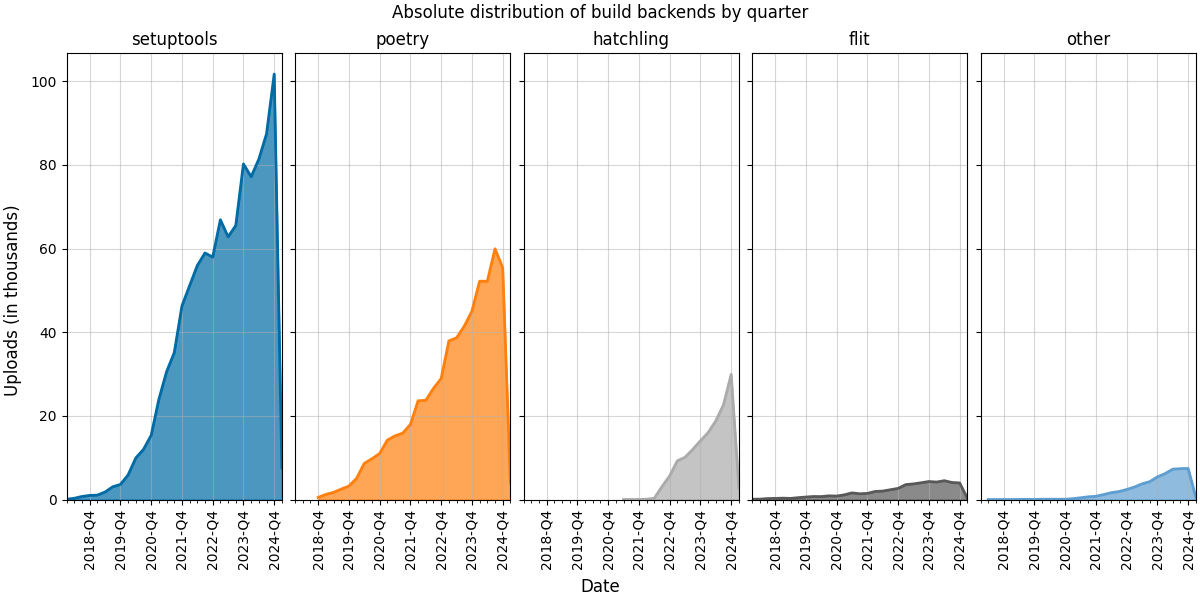
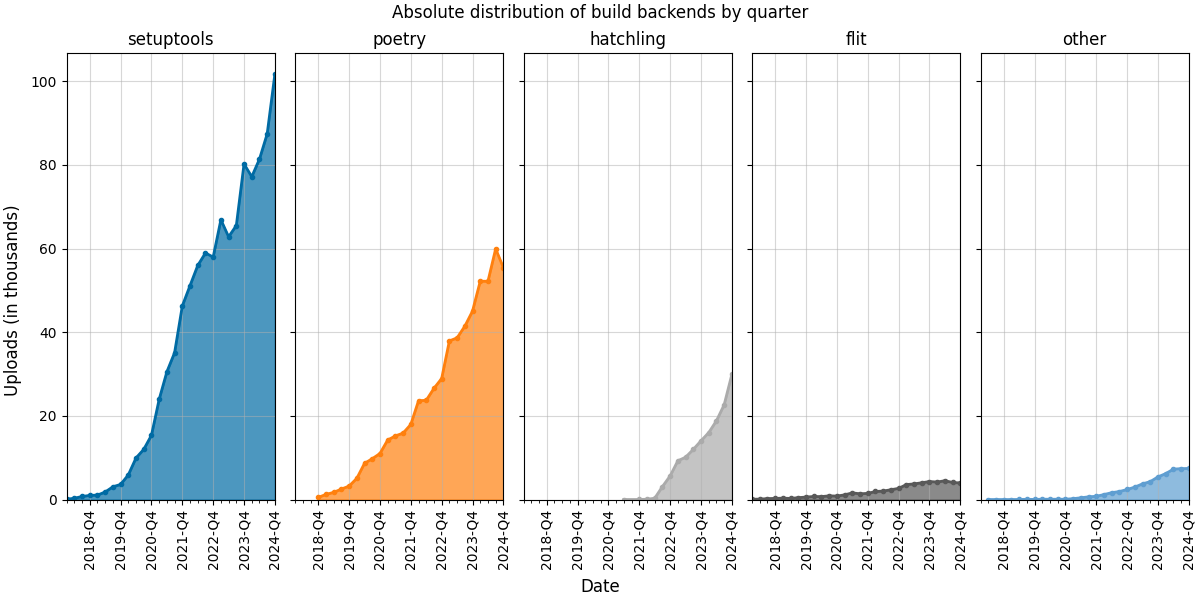
update

diff --git a/main.py b/main.py
@@ -174,7 +174,7 @@ def analyze():
     results = results.filter(
         pl.col('uploaded_on') >= pl.date(2018, 1, 1),
         #pl.col('uploaded_on') >= pl.date(2019, 1, 1),
-        #pl.col('uploaded_on') < pl.date(2025, 1, 1),
+        pl.col('uploaded_on') < pl.date(2025, 1, 1),
     )
 
     order = (
@@ -222,6 +222,7 @@ def analyze():
     for backend in order:
        ax.plot(normalized.filter(pl.col('backend') == backend)['uploaded_on'],
                normalized.filter(pl.col('backend') == backend)['count'],
+               '.-',
                label=backend)
     ax.set(title='Relative distribution of build backends by quarter')
     ax.set_xlabel('Date')
@@ -243,6 +244,7 @@ def analyze():
         axes[i].plot(
             grouped.filter(pl.col('backend') == backend)['uploaded_on'],
             grouped.filter(pl.col('backend') == backend)['count'] / 1000,
+            '.-',
             label=backend,
             color=color,
         )
